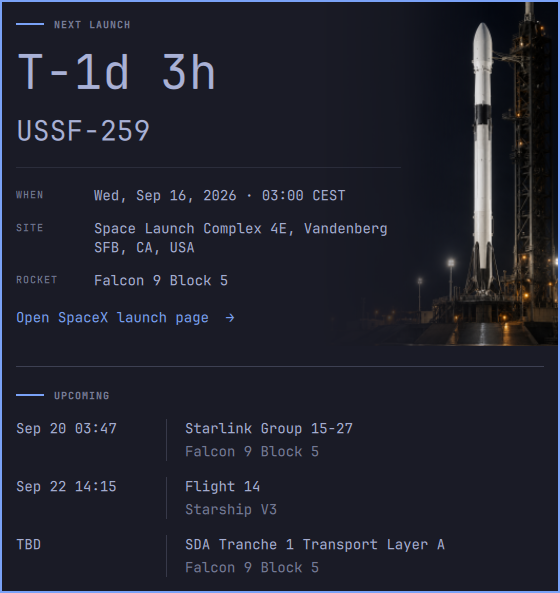
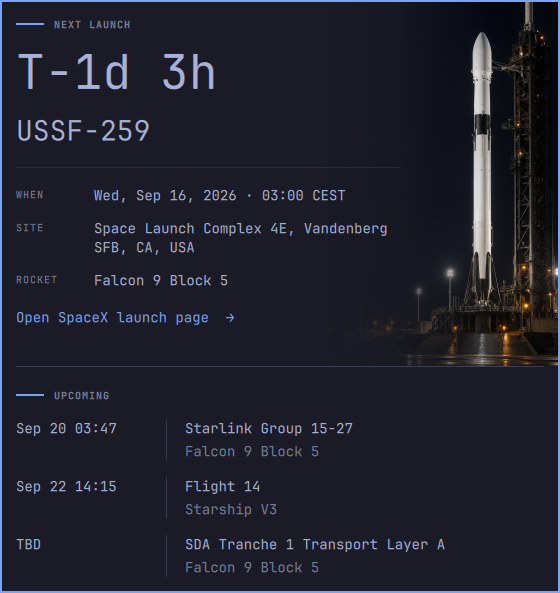
fix: extend launch artwork to section divider

Changed region(s): [[0.7286, 0.0304, 1.0, 0.6374]]

diff --git a/Panel.qml b/Panel.qml
@@ -54,14 +54,15 @@ Panel {
             anchors.topMargin: -panel.padding
             anchors.rightMargin: -panel.padding
             width: hero.width * 0.43 + panel.padding
-            height: Math.max(0, Math.min(parent.height + panel.padding, hero.height + panel.padding - launchScroll.contentY))
+            height: Math.max(0, Math.min(parent.height + panel.padding,
+                hero.height + content.spacing + panel.padding - launchScroll.contentY))
             visible: hero.showArt
             clip: true
 
             Image {
                 id: rocketPhoto
                 width: parent.width
-                height: hero.height + panel.padding
+                height: hero.height + content.spacing + panel.padding
                 y: -launchScroll.contentY
                 source: hero.showArt ? Qt.resolvedUrl(root.nextArtPath) : ""
                 sourceSize.height: Math.round(height * Screen.devicePixelRatio)

diff --git a/design-qa.md b/design-qa.md
@@ -17,11 +17,12 @@ final result: passed
 3. `/home/johnviklund/Pictures/screenshot-2026-09-14_23-37-34.png` and `/tmp/oma-space-launch-layout-qa/final.png`: reviewed against the source together after the correction. No remaining actionable P0/P1/P2 visual differences.
 
 4. User refinement: remove the image inset at the top and right window edges. Moved artwork behind the padded text container, extended it through the host padding to the inner border, and retained scroll clipping. `docs/screenshots/mission-control.png` was recaptured and inspected after a shell restart: both edges are flush, text padding is intact, and there are no QML/image errors. This narrow change was locally reviewed after the completed code-review receipt.
+5. User refinement: continue the artwork through the hero's trailing spacing so its lower edge meets the divider above `UPCOMING`. The saved preview was recaptured after a shell restart and shows no remaining dark gap between the image and divider.
 
 ## Required fidelity surfaces
 
 - Typography: inherited monospace family; large countdown, subordinate mission title, small section labels and readable 14px body. Long site and mission text wraps without clipping.
-- Layout: top-centered native shell, text-led hero, upright rocket flush with the top/right inner borders, horizontal separator, aligned upcoming date and mission/rocket columns. Height fits content; the existing Flickable remains available for limited-height screens.
+- Layout: top-centered native shell, text-led hero, upright rocket flush with the top/right inner borders and the upcoming-section divider, aligned upcoming date and mission/rocket columns. Height fits content; the existing Flickable remains available for limited-height screens.
 - Colors: inherited Omarchy foreground, popup background, border and accent. The current theme's cool lavender text replaces the mock's near-white; this is an intentional host-theme adaptation. No custom theme settings were changed.
 - Imagery: new generated launchpad imagery uses the same night lighting direction. Falcon 9 is single-core, Falcon Heavy has three cores, Starship uses the stainless stack. Selection follows `rocketFamily`; unknown families show no image. The artwork is illustrative, not a photograph of the specific mission.
 - Copy: retains full source site and rocket variant, local date/time with timezone, mission and launch-page action. Upcoming rows retain uncertain NET/TBD values. No invented mission tagline or telemetry.
